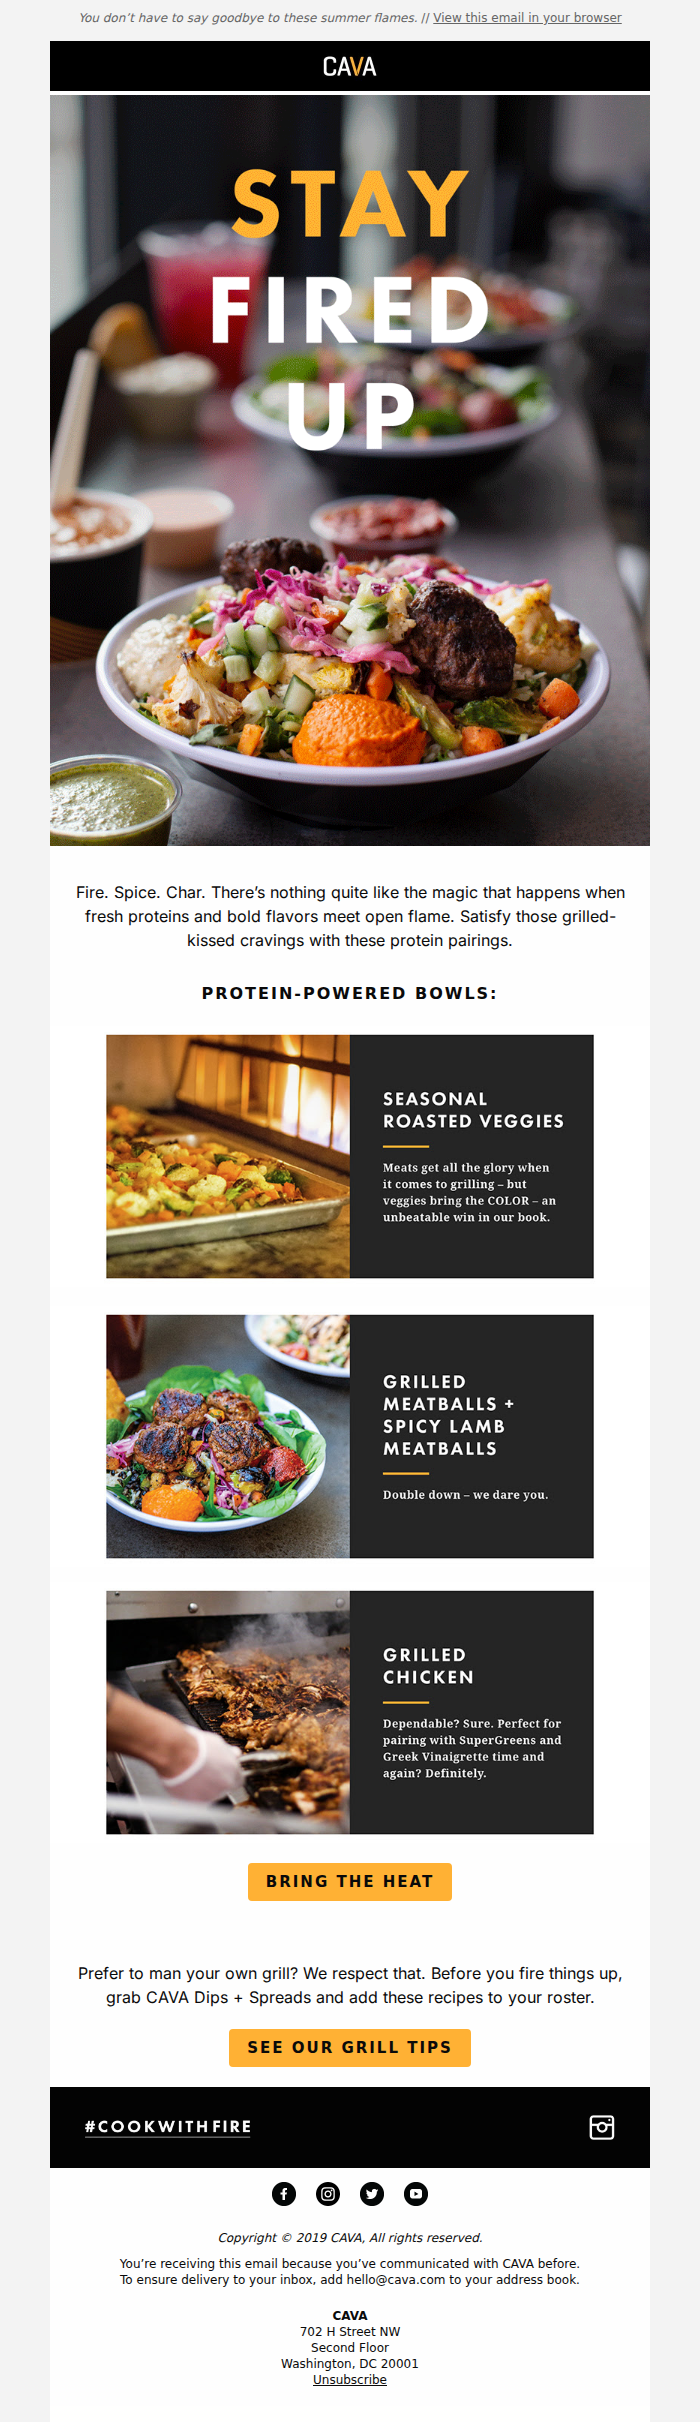
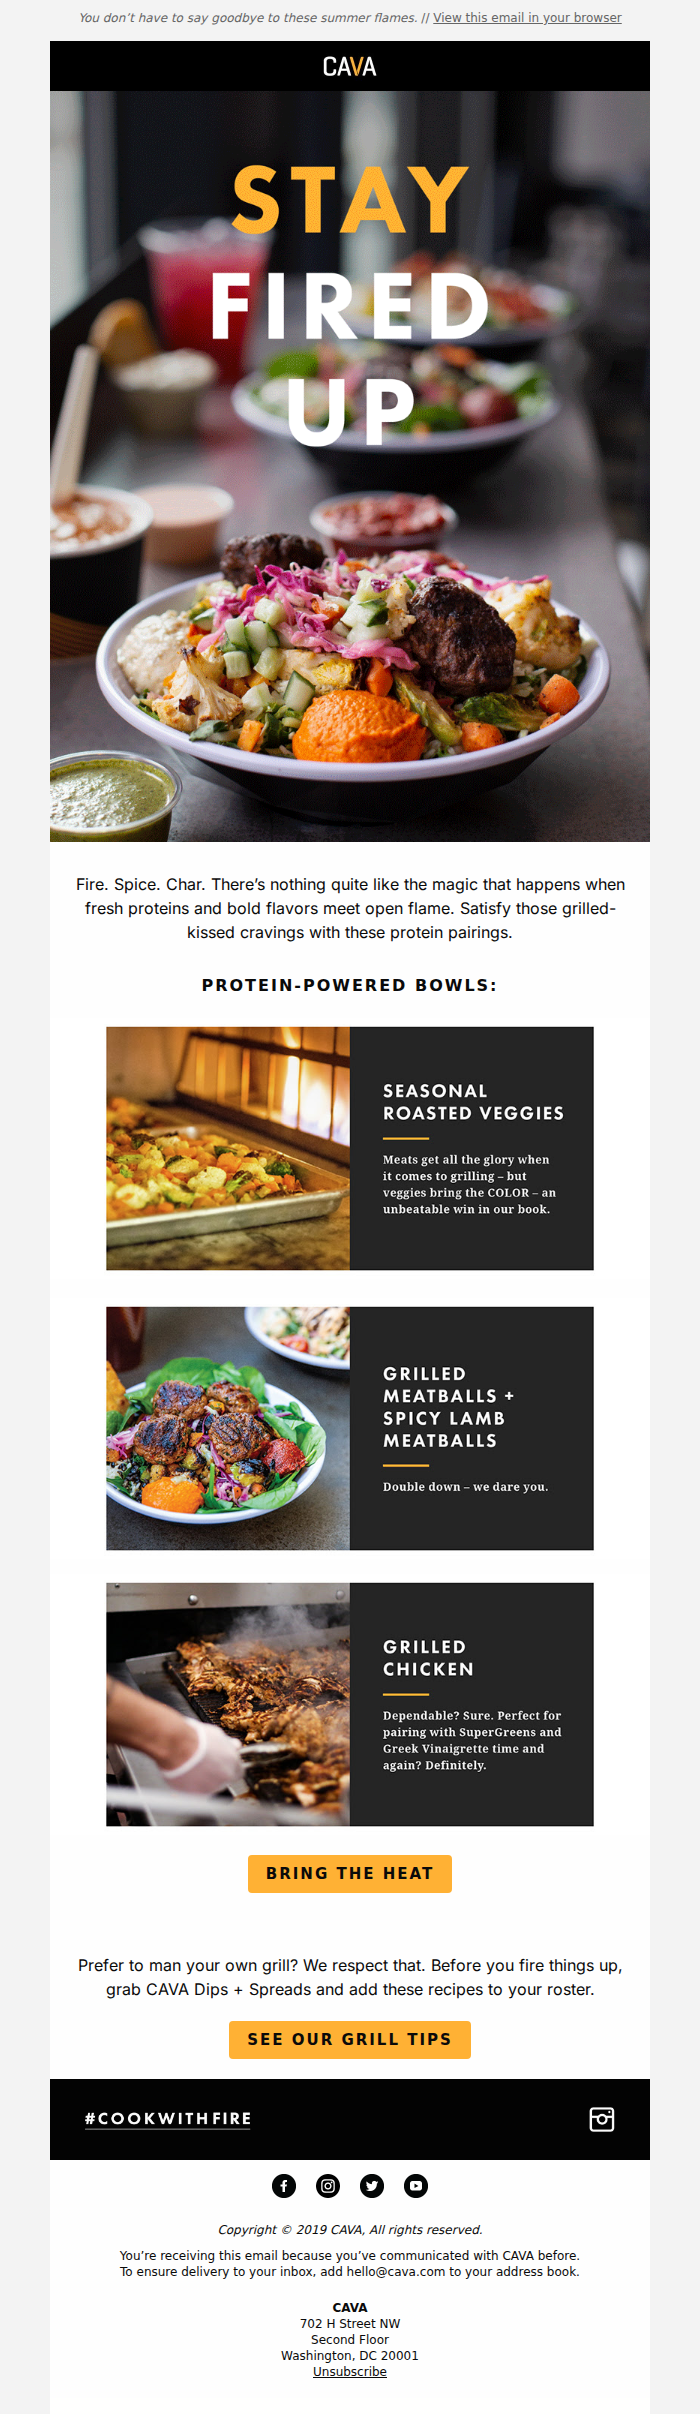
fix cava email

diff --git a/maizzle.config.js b/maizzle.config.js
@@ -9,8 +9,9 @@ export default {
   // Absolute asset URLs for the GitHub Pages project site (served from
   // /emails/, so root-relative paths would 404). Enabled by setting
   // MAIZZLE_BASE_URL — the deploy workflow does this automatically.
-  // Local builds omit it and keep root-relative paths so the dev server
-  // and screenshot script resolve assets offline.
+  // No trailing slash: it concatenates directly onto our root-relative
+  // "/per-email/asset" paths. Local builds omit it and keep root-relative
+  // paths so the dev server and screenshot script resolve assets offline.
   url: process.env.MAIZZLE_BASE_URL ? { base: process.env.MAIZZLE_BASE_URL } : {},
   // One plaintext file per email, written next to its HTML counterpart.
   plaintext: true,

diff --git a/emails/animation-email.vue b/emails/animation-email.vue
@@ -70,14 +70,14 @@ const socials = [
     <Section class="bg-cava-light-gray">
       <Container class="bg-cava-white">
         <!-- CAVA name banner -->
-        <Row>
+        <Row style="font-size: 0; line-height: 0;">
           <Column>
             <Img src="/animation-email/cava.jpg" alt="CAVA" width="600" class="block w-full" />
           </Column>
         </Row>
 
         <!-- Big animated GIF hero -->
-        <Row>
+        <Row style="font-size: 0; line-height: 0;">
           <Column>
             <Img src="/animation-email/banner-img.gif" alt="Stay fired up" width="600" class="block w-full" />
           </Column>
